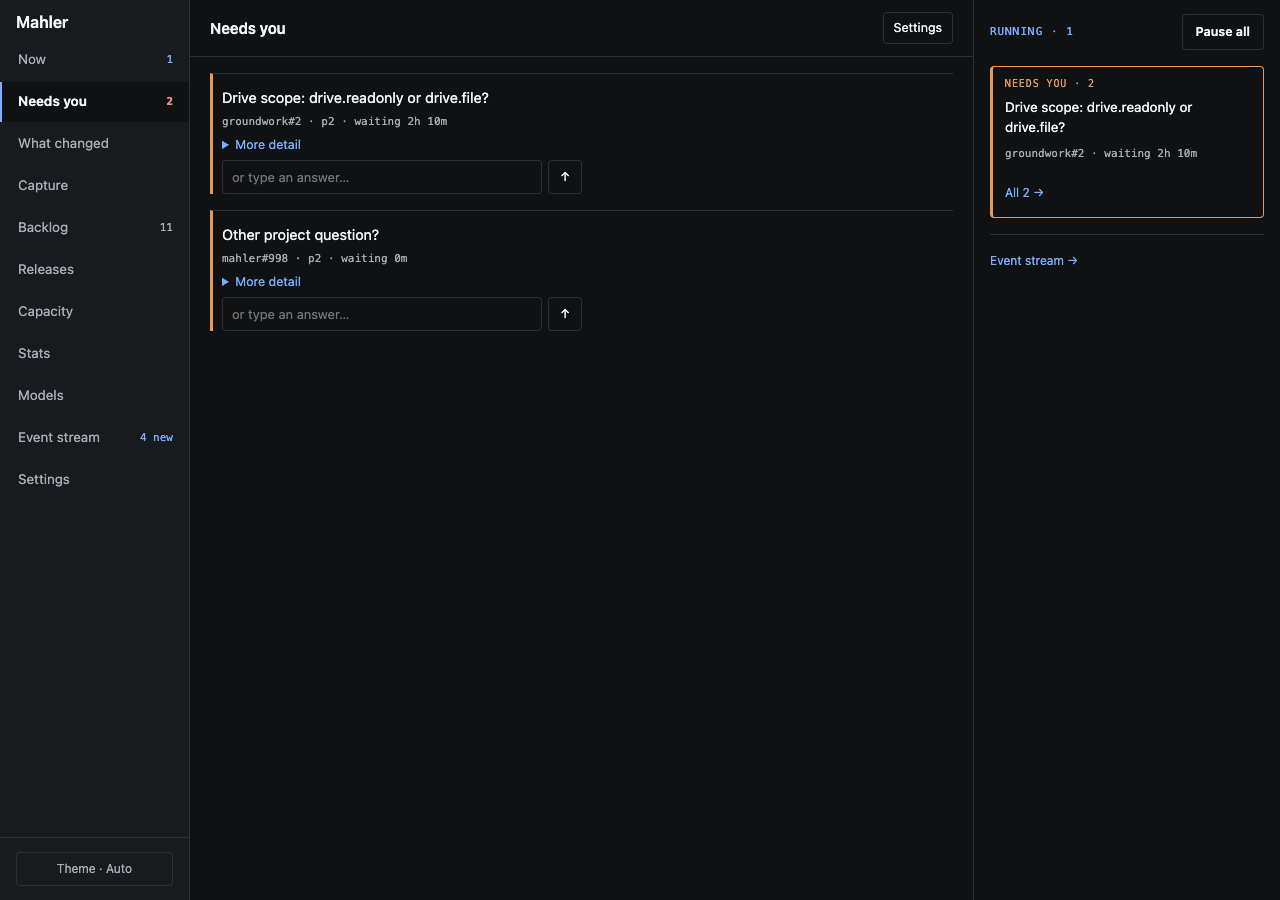
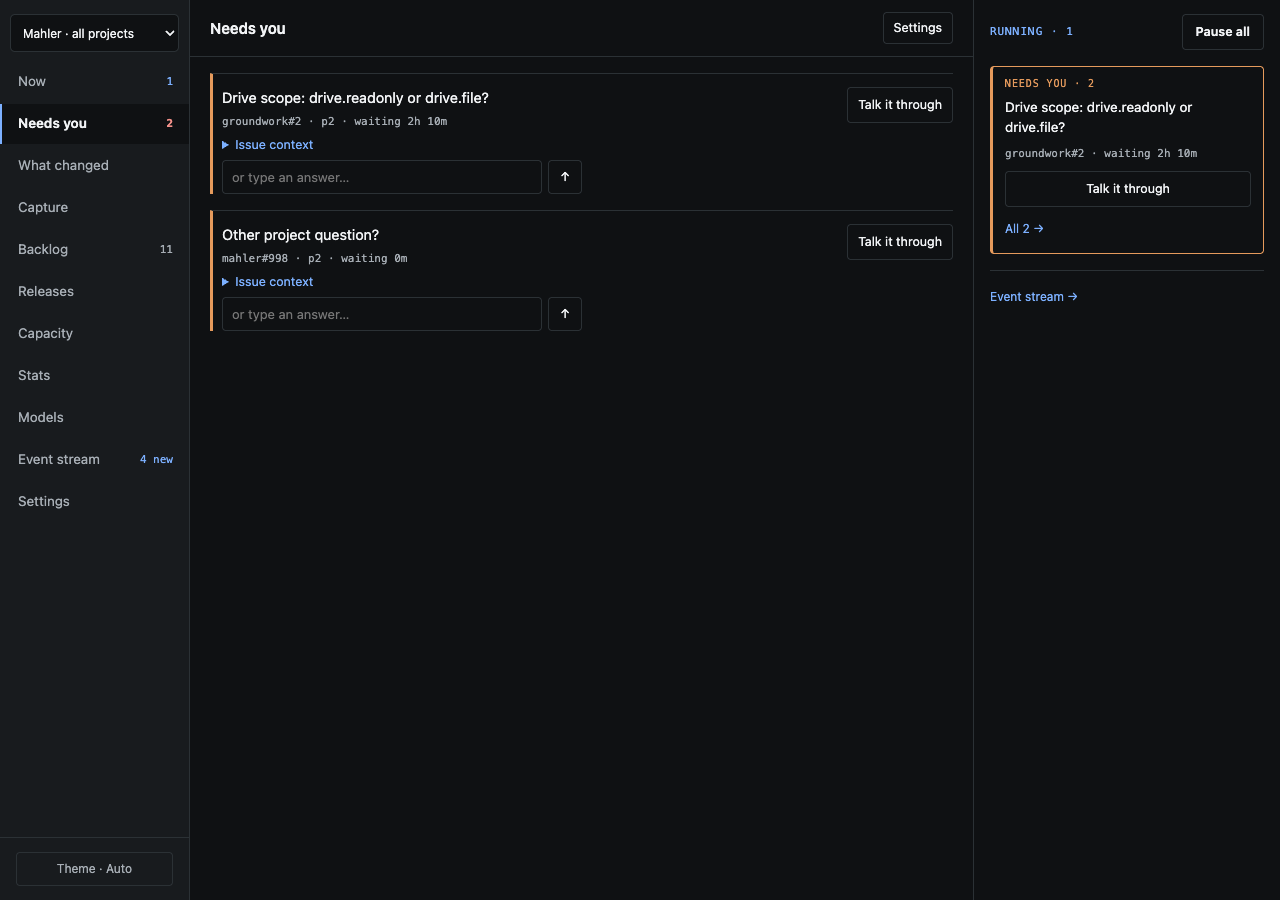
Record passing gated project overview journey

diff --git a/tests/test_console_journey.py b/tests/test_console_journey.py
@@ -81,6 +81,19 @@ class JourneyDriverTests(unittest.TestCase):
         self.assertFalse((JOURNEY / "node_modules").exists())
 
 
+class JourneyAuditTests(unittest.TestCase):
+    def test_criterion_seven_records_a_passing_gated_run(self):
+        audit = (JOURNEY.parents[1] / "docs" / "audits" / "1119-completion.md").read_text()
+        criterion = audit.split("## Criterion 7 re-run (#1257)", 1)[1]
+        self.assertIn("mahler desktop run -- sh examples/console_journey/run.sh", criterion)
+        self.assertIn("journey exited **0**", criterion)
+        self.assertIn(
+            "| a1 all-projects page offers the scope switcher | pass | pass |",
+            criterion,
+        )
+        self.assertIn("Criterion 7 is **SUPPORTED**.", criterion)
+
+
 @unittest.skipUnless(os.environ.get("MAHLER_CONSOLE_JOURNEY_CHROME"),
                      "opt-in real browser: set MAHLER_CONSOLE_JOURNEY_CHROME=1 and run via the desktop gate")
 class JourneyBrowserTests(unittest.TestCase):

diff --git a/docs/audits/1119-completion.md b/docs/audits/1119-completion.md
@@ -4,9 +4,10 @@ Audit for #1249, 2026-10-25 local (2026-10-26 UTC), macOS, Python 3.14.3,
 Node v25.6.0. Audited base: `e159e61fa36f3b996f854136621253399d408bec`;
 `git rev-parse HEAD origin/main` returned that SHA twice before any edits.
 The working tree was clean. Product code remains identical to that base.
-This is an evidence-only change, so no behavior change or failing-first product
-regression test is introduced. Existing executable checks and a rendered-fixture
-probe below establish both supported behavior and a remaining gap.
+This is an evidence-only change and introduces no product behavior. The follow-up
+adds a failing-first contract that prevents criterion-7 audit evidence from going
+stale; existing executable checks and a rendered-fixture probe establish supported
+behavior and remaining gaps.
 
 ## Assessment
 
@@ -21,7 +22,7 @@ it does not imply a real-browser visual walkthrough. Criterion 7 tracks that sep
 | 4. #1124 merged; targeted atomic 1–64 max_parallel; project pause/resume preserves runs and visibility | SUPPORTED | Config boundaries/byte preservation, fresh config reload, atomic replacement, scheduler and both layout contracts |
 | 5. Committed approved mockup, integrated console design, allocated Prioritize decision | SUPPORTED | Mockup introduced by #1161; console design sections and DESIGN D51 |
 | 6. Four required checks pass on merged base | SUPPORTED | All four commands exited 0; 3,259 tests per suite, one opt-in browser smoke skipped |
-| 7. Gated integrated desktop/phone walkthrough | OUTSTANDING (#1257: journey ran; one product defect) | Journey ran through the gate; every step passed except `a1`, which failed on product defect [#1274](https://github.com/mkny13/mahler/issues/1274). See "Criterion 7 re-run" |
+| 7. Gated integrated desktop/phone walkthrough | SUPPORTED (#1257 re-run) | The gated browser journey passed all steps on desktop and phone after #1274 merged; see "Criterion 7 re-run" and committed screenshots |
 
 No owner-only decision is needed to finish this audit. Existing visual/taste notes
 on #1119 are not an owner-pass gate: shipments complete through automated evidence
@@ -293,19 +294,23 @@ global `WebSocket`, `node:sqlite`; drives Google Chrome 156 headless over CDP). 
 starts the seed, runs the journey and tears down. Contract test:
 `tests/test_console_journey.py`.
 
-Command, always through the gate:
+The first gated run recorded below was against an ancestor that did not yet contain #1274,
+so its `a1` failure is superseded. The audited `main` base
+`eb8497ad330a2aed186e33e1e5d80abaa9dd27a2` contains #1274 (merged as `95ed339`).
+Re-ran the complete journey on PR head `474263fa6f1958459ca49faba2066a85ba7fb714`
+on 2026-10-26:
 
 ```sh
 mahler desktop run -- sh examples/console_journey/run.sh
 ```
 
-The gate allowed it; the journey exited 1 and the wrapper printed
-`mahler desktop: command ran and exited 1`. Per-step output (desktop 1280x900, phone
-390x844 mobile emulation):
+The desktop gate allowed execution; the wrapper and journey exited **0** and printed
+`JOURNEY PASS`. Chrome 156 completed all steps at desktop 1280x900 and phone 390x844
+with mobile emulation:
 
 | Step | Desktop | Phone |
 | --- | --- | --- |
-| a1 all-projects page offers the scope switcher | **FAIL** | **FAIL** |
+| a1 all-projects page offers the scope switcher | pass | pass |
 | a2 switcher moves scope, URL `?project=` follows, reload keeps it, Needs you/Backlog/Releases/Stats/Event stream show only the project | pass | pass |
 | b Overview content | pass | pass |
 | c Prioritize 1 hour, banner, ▲ in switcher; replacement on the other project asked for confirmation; Stop; ledger has `priority_boost_started`/`replaced`/`stopped` | pass | pass |
@@ -313,22 +318,18 @@ The gate allowed it; the journey exited 1 and the wrapper printed
 | e Pause then resume; project stays listed (switcher shows paused), running item stays active; events recorded | pass | pass |
 | f Overview in dark mode | pass | pass |
 
-PNGs for each step and layout are in `docs/audits/1119-journey/`
-(`02-FAILED-a1-*` shows the all-projects page with no switcher).
-
-**Product defect found:** the Mahler-wide view renders a plain "Mahler" brand, not the
-switcher, so a project can only be entered by typing `?project=`. `design.md` and #1119 §1
-say the rail/phone brand is the dropdown. Filed as p1 `type:bug`
-[#1274](https://github.com/mkny13/mahler/issues/1274), `Part of #1119`. Step a2 therefore
-enters by URL. Criterion 7 stays **unchecked** until #1274 merges and the journey passes
-`a1`; re-run the same gated command then. Ordering and expiry are not repeated by the
-journey; criterion 3's scheduler and ledger tests cover them. Visual note, not an
-assertion: on the phone Overview the lower sections sit flush against the left edge and ref
-numbers run into titles; taste notes are not a gate (D10).
+The latest PNGs for all steps and both layouts, including dark mode, are committed in
+`docs/audits/1119-journey/` (`01` through `13`, desktop and phone). Ordering and expiry
+are not repeated by the journey; criterion 3's scheduler and ledger tests cover them.
+Criterion 7 is **SUPPORTED**. The previously filed p1 `type:bug` issue
+[#1274](https://github.com/mkny13/mahler/issues/1274), `Part of #1119`, is included in
+the current base; it repaired the all-projects scope switcher.
 
 ## Parent checklist handoff (#1257)
 
-Criterion 2 ticked on #1119 from the evidence above. Criterion 7 left unchecked.
+Criterion 2 is supported by the post-#1256 evidence above. Criterion 7 is supported by
+the passing gated journey above. The conductor posts the evidence and updates the
+remaining parent checkbox.
 
 ## Replay verification (run 13552)
 
@@ -342,7 +343,23 @@ on base `eb8497ad330a2aed186e33e1e5d80abaa9dd27a2`. All commands exited 0:
 - `PYTHONPATH=tests python3 -m unittest -v test_console_journey`: 4 tests,
   0.468s, OK (skipped=1); isolated HTTP fixture and refusal checks executed.
 
-The opt-in browser checks were skipped. This replay verification did not rerun
-Chrome and does not supersede the saved gated journey failure above. Criterion 7
-remains outstanding pending a passing gated run after the scope-switcher repair
-tracked by #1274. No owner-only decision is needed; no GitHub writes were attempted.
+The opt-in browser checks were skipped in that replay. It did not rerun Chrome; the
+passing gated run in "Criterion 7 re-run" supersedes the earlier failing browser
+evidence. No owner-only decision is needed; no GitHub writes were attempted.
+
+## Follow-up verification (#1257)
+
+Evidence and screenshot refresh on PR head `474263fa6f1958459ca49faba2066a85ba7fb714`.
+`node --check examples/console_journey/journey.mjs` exited 0;
+`PYTHONPATH=tests python3 -m unittest -v test_console_journey` ran 5 tests,
+OK (skipped=1; the Chrome test is opt-in because the gated journey above is the
+browser evidence).
+
+All four repository checks exited 0: `python3 -m mahler.repo_guard`;
+`python3 -m unittest discover -s tests` (3,338 tests, skipped=2);
+`python3 tests/run_random.py` (3,338 tests, skipped=2, seed 369127221); and
+`python3 -X dev tests/run_strict.py` (3,338 tests, skipped=2). This runner injects
+`safe.bareRepository=explicit`, conflicting with isolated tests that create temporary
+bare Git repos; the checks were rerun with the process-scoped
+`GIT_CONFIG_VALUE_3=all` override. The current-head CI run independently passed all
+four repository checks without that local runner override.
